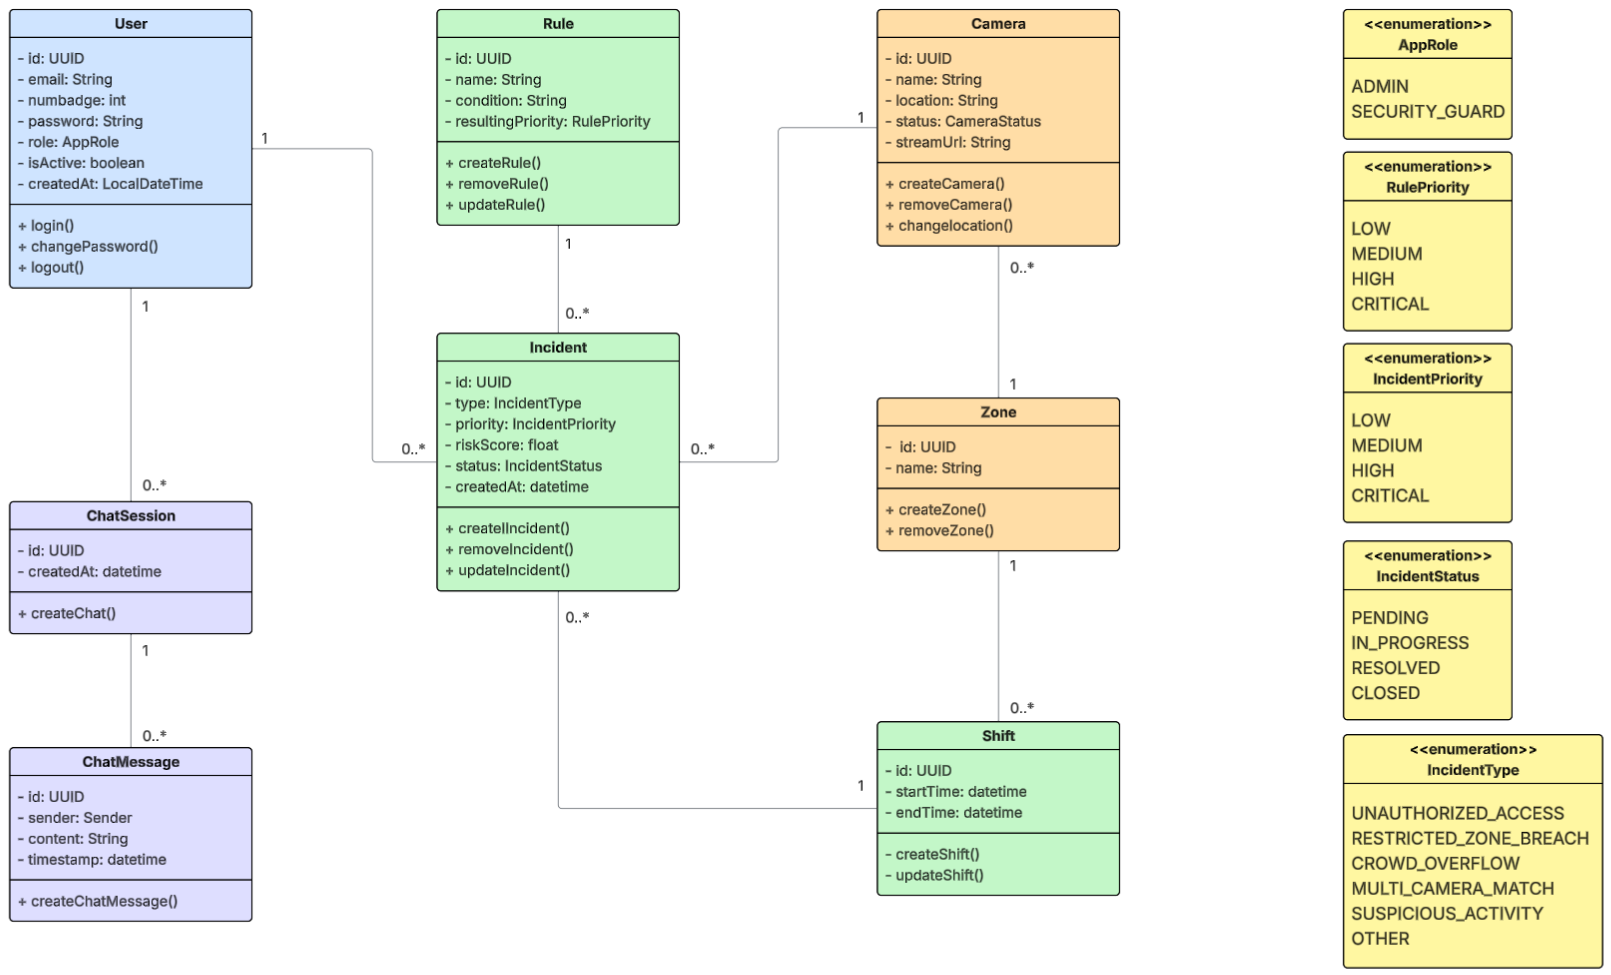
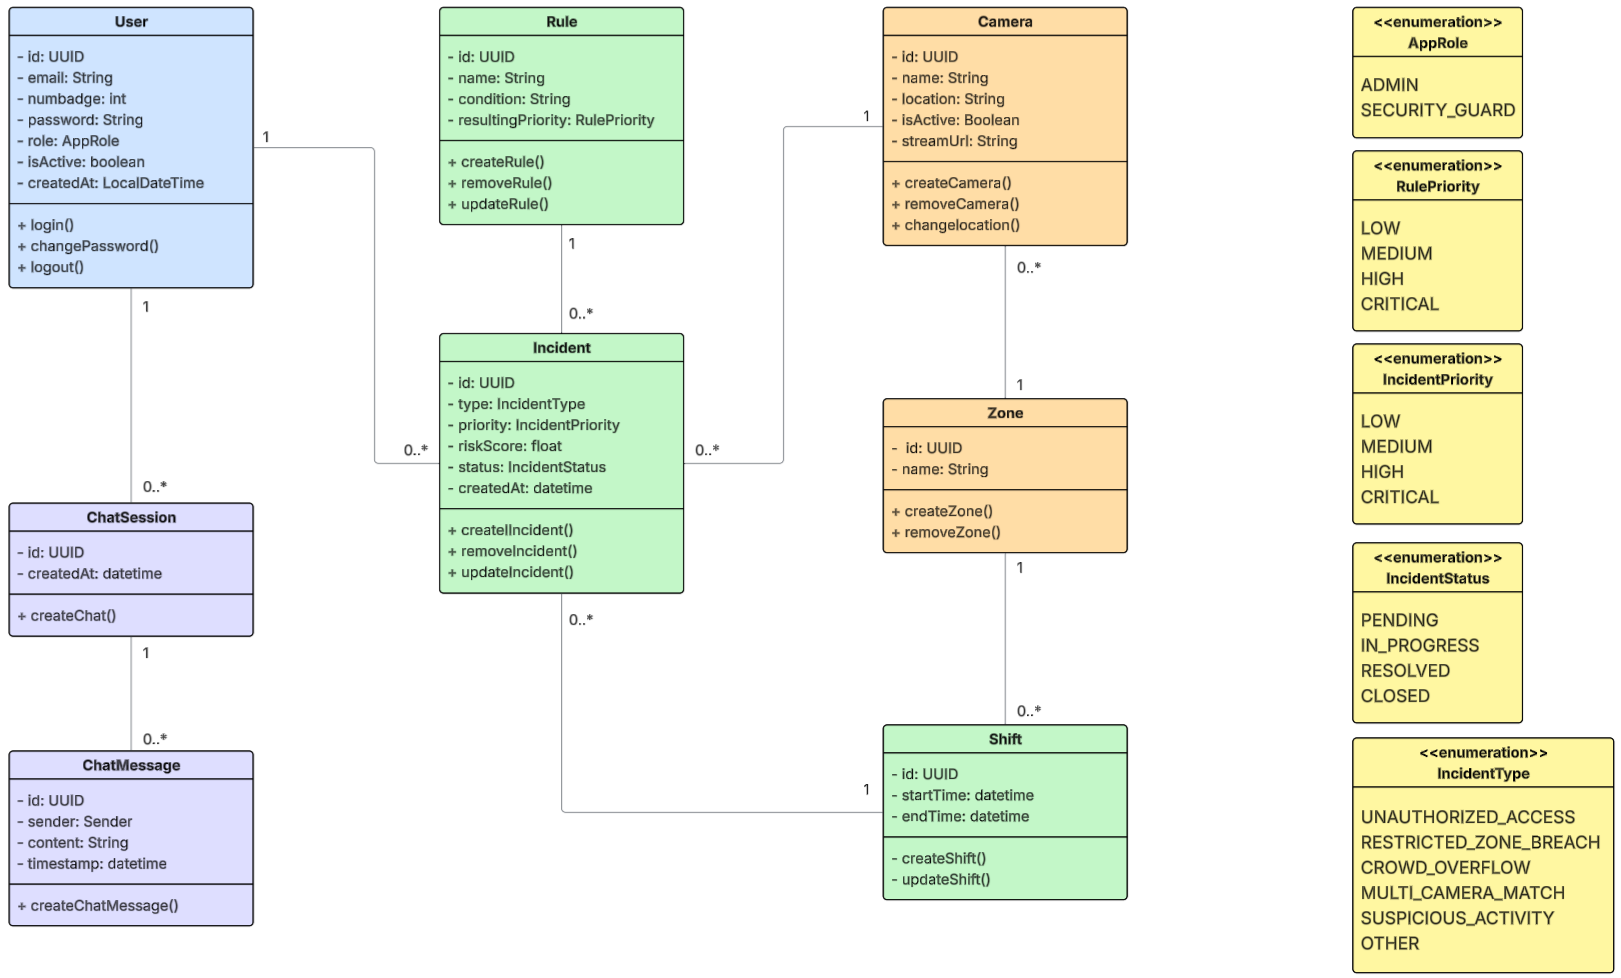
fixed class diagram

diff --git a/backend/camera-service/models/camera.go b/backend/camera-service/models/camera.go
@@ -1,0 +1,28 @@
+package models
+
+import (
+	"time"
+
+	"github.com/google/uuid"
+	"gorm.io/gorm"
+)
+
+
+type Camera struct {
+	ID        uuid.UUID `gorm:"type:char(36);primaryKey" json:"id"`
+	Name      string    `gorm:"size:150;not null" json:"name"`
+	ZoneID    uuid.UUID `gorm:"type:char(36);index" json:"zoneId"`
+	Location  string    `gorm:"size:150;not null" json:"location"`
+	Isactive  bool      `gorm:"not null" json:"isActive"`
+	StreamURL string    `gorm:"size:255;not null" json:"streamUrl"`
+	CreatedAt time.Time `json:"createdAt"`
+
+}
+
+
+func (c *Camera) BeforeCreate(tx *gorm.DB) error {
+	if c.ID == uuid.Nil {
+		c.ID = uuid.New()
+	}
+	return nil
+}

diff --git a/backend/camera-service/models/zone.go b/backend/camera-service/models/zone.go
@@ -1,0 +1,19 @@
+package models
+
+import(
+	"time"
+	"github.com/google/uuid"
+	"gorm.io/gorm"
+)
+
+type Zone struct{
+	ID   uuid.UUID `gorm:"type:char(36);primaryKey" json:"id"`
+	name string    `gorm:size:150;not null" json:"id"`
+}
+
+func (c *Zone) BeforeCreate(tx *gorm.DB) error {
+	if c.ID == uuid.Nil {
+		c.ID = uuid.New()
+	}
+	return nil
+}